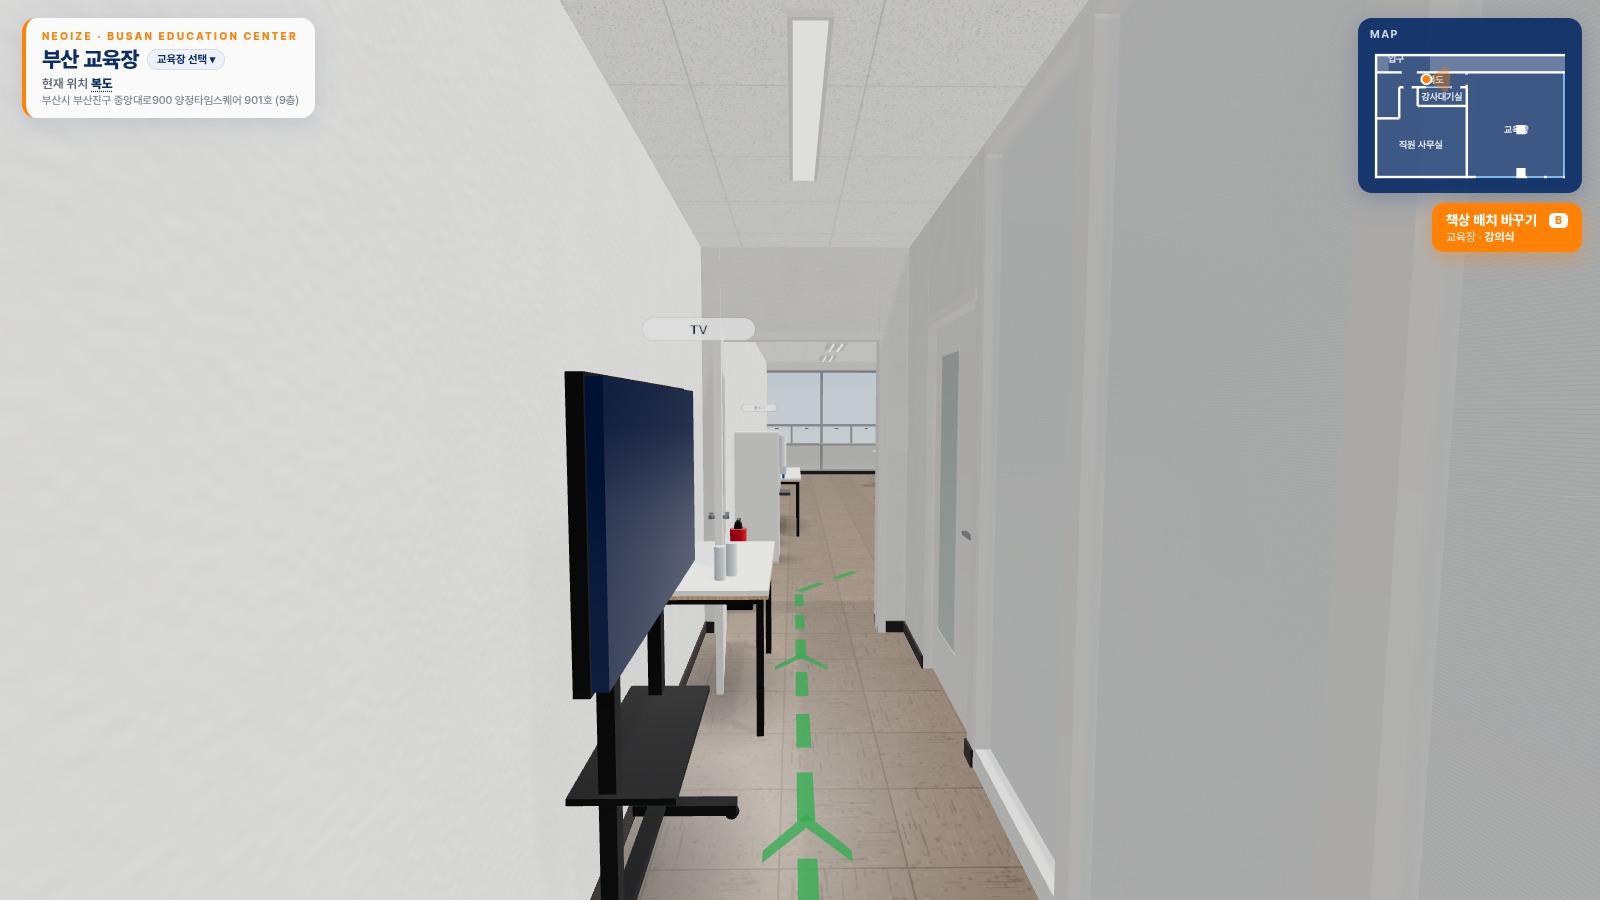
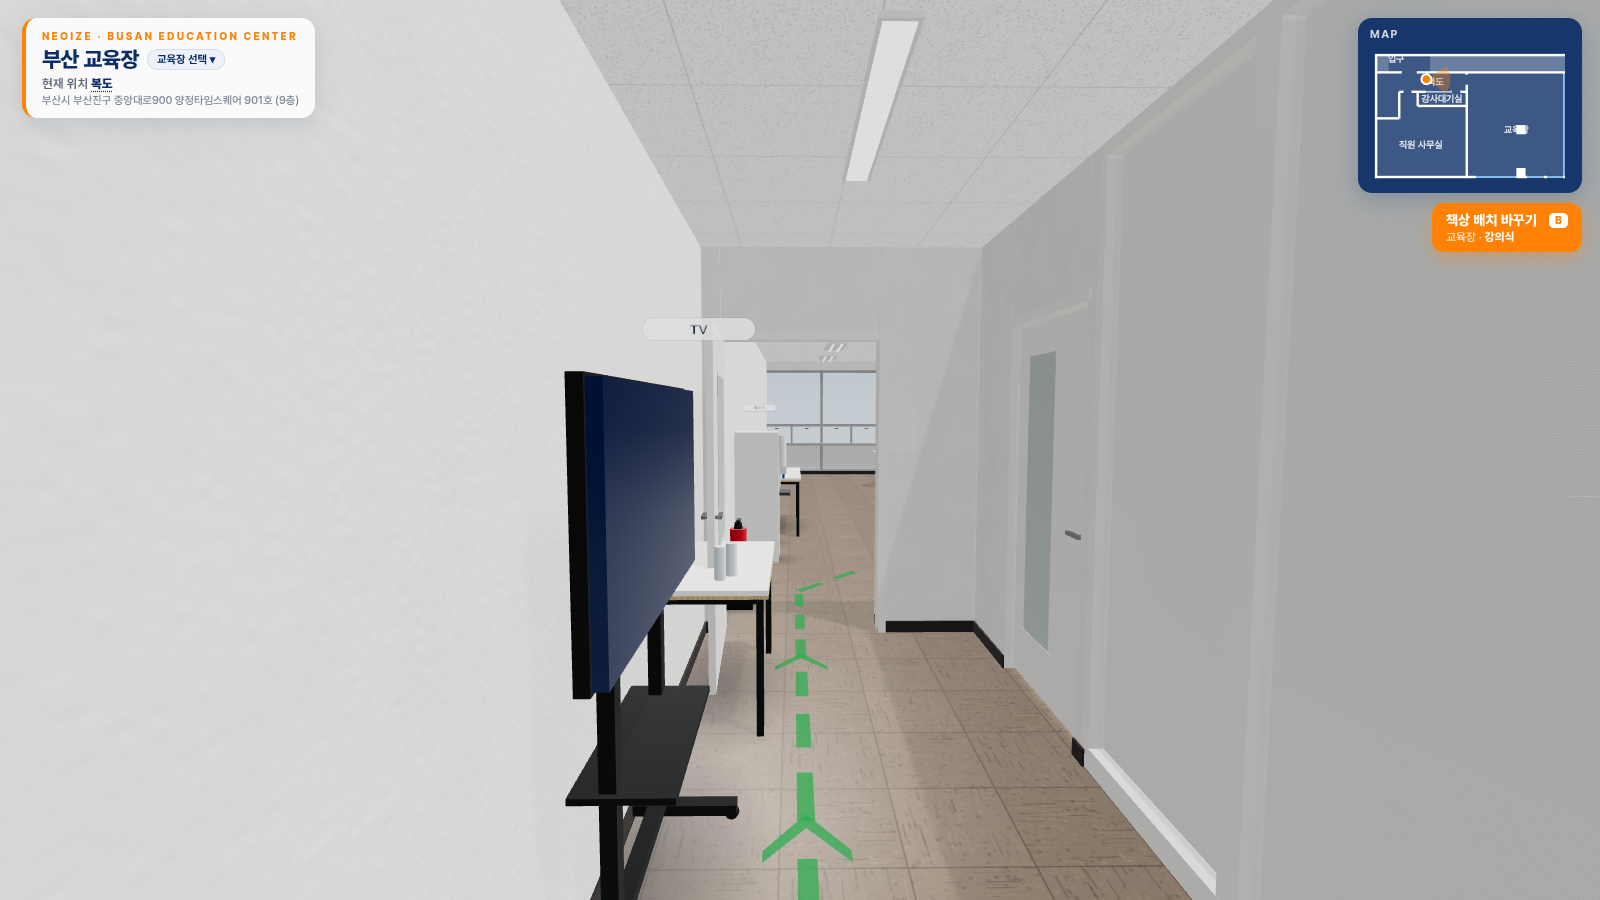
Seoul: public corridor, elevator hall, restrooms, route; Busan: widen north corridor to 2.12m

diff --git a/sites/seoul/layout.js b/sites/seoul/layout.js
@@ -64,6 +64,13 @@ window.LAYOUT = {
       label:[11.0, 11.6], jump:{ x:11.5, z:11.3, look:[11.2, 8.0] },
       card:{ photos:['IMG_0378','IMG_0380','IMG_0388'],
              desc:'유리문 위에 Neoful business space 사인이 있는 입구예요. 들어오면 교육장 앞 디스플레이 월과 배너가 보여요.' } },
+    // (11/19 사용자 도면 '화장실 가는 길') 건물 공용 복도 — 유리입구 → 서쪽 공용 복도(남쪽) → 엘리베이터 홀 → 여자·남자 화장실. 도면 축척 x 0.075 m/px, z 0.0712 m/px (Neoful 12.45 × 12.1m 기준)
+    { id:'restroom', name:'화장실', en:'Restroom', small:true, rect:[19.9, 22.9, 22.35, 28.1], rects:[[36.9, 22.9, 39.75, 28.1]], floor:'floor',
+      label:[21.1, 24.2], jump:{ x:21.1, z:29.4, look:[21.1, 23.0] },
+      card:{ photos:[], desc:'유리입구로 나가 공용 복도를 따라 남쪽으로 내려간 뒤, 엘리베이터 홀 왼쪽이 여자 화장실, 오른쪽 끝이 남자 화장실이에요.' } },
+    { id:'evhall', name:'EV 홀', en:'Elevator Hall', small:true, rect:[12.45, 28.1, 47.25, 31.1], floor:'floor',
+      label:[29.6, 29.6], jump:{ x:13.5, z:29.6, look:[40.0, 29.6] },
+      card:{ photos:[], desc:'엘리베이터 3대가 있는 홀이에요. 회색 화강석 벽과 광택 바닥, 엘리베이터 앞 노란 점자블록이 있어요. 홀 양쪽 끝 가까이에 여자·남자 화장실이 있어요.' } },
     { id:'lounge', name:'라운지', en:'Lounge', rect:[0, 6.22, 12.45, 12.1], floor:'floor',
       label:[3.2, 8.4], jump:{ x:3.2, z:9.9, look:[5.4, 7.0] },
       card:{ photos:['IMG_0420','IMG_0421','IMG_0422','IMG_0424'],
@@ -128,15 +135,46 @@ window.LAYOUT = {
       openings:[ { at:2.70, width:1.0, door:'frameless', hinge:'start', swing:63 } ] },   // 회의실 앞 통유리 3장(문 1 + 고정 2, 문은 서쪽 끝)
     // bay = 유리 한 장의 대략 폭(m). 구간 길이 ÷ bay 를 반올림한 수만큼 유리가 나뉘어요.
     { from:[6.75, 9.18], to:[12.45, 9.18], type:'solid', t:0.30, sign:{ text:'EDUCATION CENTER', at:11.475, y:2.33, size:0.1 },   // 문 위 사인
-      openings:[ { at:11.0, width:0.95, door:'glass', frame:'white', hinge:'end', swing:-88 } ] }  // 교육장 출입문(남쪽 벽 동쪽 끝). 경첩은 동쪽, 교육장 안으로 88° 열려 동쪽 벽 쪽에 붙음 → 통로 쪽 길을 막지 않음
+      openings:[ { at:11.0, width:0.95, door:'glass', frame:'white', hinge:'end', swing:-88 } ] },  // 교육장 출입문
+    // ===== 건물 공용 복도(사용자 도면 11/19, 사진 seoul_corr1 · seoul_corr2_elev) — finish: 'white'(흰 벽+회색 걸레받이) / 'granite'(화강석) =====
+    // 서쪽 공용 복도 x9.0–12.45, z12.1–28.1: 서쪽 = 다른 호실 유리 전면, 동쪽 = 흰 벽(STAIRS 방화문 · 소화전함) → 남쪽 끝 화강석
+    { from:[9.0, 12.1],  to:[9.0, 14.6],  type:'solid', finish:'white', t:0.16 },
+    { from:[9.0, 14.6],  to:[9.0, 27.2],  type:'glass', style:'store', bay:1.4, t:0.12 },     // 다른 호실 유리 전면(출입 불가)
+    { from:[9.0, 27.2],  to:[9.0, 31.1],  type:'solid', finish:'granite', t:0.16 },
+    { from:[12.45, 12.1], to:[12.45, 27.3], type:'solid', finish:'white', t:0.16 },
+    { from:[12.45, 27.3], to:[12.45, 28.1], type:'solid', finish:'granite', t:0.2 },
+    // 엘리베이터 홀 z28.1–31.1, x9.0–47.25: 북쪽 = 여자 화장실 입구 · 엘리베이터 3대 · 남자 화장실 입구, 남쪽 = 화강석 + 흰 문 2개, 동쪽 끝 유리문
+    { from:[12.45, 28.1], to:[19.9, 28.1], type:'solid', finish:'granite', t:0.2 },
+    { from:[22.35, 28.1], to:[36.9, 28.1], type:'solid', finish:'granite', t:0.2 },
+    { from:[39.75, 28.1], to:[47.25, 28.1], type:'solid', finish:'granite', t:0.2 },
+    { from:[9.0, 31.1],  to:[47.25, 31.1], type:'solid', finish:'granite', t:0.2 },
+    { from:[47.25, 28.1], to:[47.25, 31.1], type:'glass', t:0.12,
+      openings:[ { at:28.85, width:1.5, door:'glass', double:true, locked:true } ] },          // 홀 동쪽 끝 유리문(출입 불가)
+    // 화장실 앞 통로(도면 문 표시 자리): 여자 x19.9–22.35, 남자 x36.9–39.75, z22.9–28.1
+    { from:[19.9, 22.9], to:[19.9, 28.1], type:'solid', finish:'granite', t:0.2 },
+    { from:[22.35, 22.9], to:[22.35, 28.1], type:'solid', finish:'granite', t:0.2 },
+    { from:[19.9, 22.9], to:[22.35, 22.9], type:'solid', finish:'white', t:0.2 },
+    { from:[36.9, 22.9], to:[36.9, 28.1], type:'solid', finish:'granite', t:0.2 },
+    { from:[39.75, 22.9], to:[39.75, 28.1], type:'solid', finish:'granite', t:0.2 },
+    { from:[36.9, 22.9], to:[39.75, 22.9], type:'solid', finish:'white', t:0.2 }   // (교육장 출입문: 남쪽 벽 동쪽 끝) 경첩은 동쪽, 교육장 안으로 88° 열려 동쪽 벽 쪽에 붙음 → 통로 쪽 길을 막지 않음
   ],
 
   /* 입구 바깥 복도(건물 밖 짧은 복도) + 입구 포털(바깥에서 본 모습, 사용자 사진)
      rect : 복도 [x1, z1, x2, z2] (z1 = 건물 남쪽 바깥면), portal : 세이지 그린 프레임 x0~x1, door = 양문 [x 시작, x 끝], text = 간판 글씨, room = 호수 */
-  corridor: { rect:[7.8, 12.1, 13.4, 14.3],
+  corridor: { rect:[9.0, 12.1, 12.45, 14.3], shell:false,
     portal: { x0:9.4, x1:12.45, door:[10.8, 12.25], top:2.12, color:'#9BA59A', text:'Neoful business space', room:'210호' } },
 
   /* 벽 블록(소회의실 안 흰 정사각형) 같은 기둥: rect = [x1,z1,x2,z2], slats = 우드 슬랫을 붙일 면 */
+  /* 건물 공용 복도 바닥(테라조)·천장 영역 [x1,z1,x2,z2] — 걷기 가능 */
+  public: { floors: [ [9.0, 12.1, 12.45, 31.1], [12.45, 28.1, 47.25, 31.1], [19.9, 22.9, 22.35, 28.1], [36.9, 22.9, 39.75, 28.1] ],
+            units: [ [4.5, 14.6, 8.94, 27.2] ] },   // units = 유리 너머 다른 호실 바닥(보기만, 출입 불가)
+
+  /* 바닥 초록 동선: 교육장 문 → 유리입구 → 공용 복도 → 엘리베이터 홀 → 여자 화장실 / 남자 화장실 */
+  routes: [
+    { color:'#2fa84f', points:[[11.47, 9.6], [11.5, 11.5], [10.75, 12.8], [10.75, 29.6], [21.1, 29.6], [21.1, 23.6]] },
+    { color:'#2fa84f', points:[[21.1, 29.6], [38.3, 29.6], [38.3, 23.6]] }
+  ],
+
   columns: [
     { rect:[0.78, 0.7, 1.76, 1.68], slats:['west','north'] }   // 소회의실 흰 벽 블록 x0.78–1.76, z0.7–1.68 (실측 스케치 2차)
   ],
@@ -158,13 +196,19 @@ window.LAYOUT = {
     strips: [
       { x:8.2, z:2.4, len:1.2 }, { x:11.2, z:2.4, len:1.2 },
       { x:8.2, z:4.9, len:1.2 }, { x:11.2, z:4.9, len:1.2 },
-      { x:8.2, z:7.4, len:1.2 }, { x:11.2, z:7.4, len:1.2 }
+      { x:8.2, z:7.4, len:1.2 }, { x:11.2, z:7.4, len:1.2 },
+      // 공용 복도(사진1): 남북 방향 긴 라인 조명 / 엘리베이터 홀(사진2): 동서 방향 슬롯 조명
+      { x:10.72, z:15.0, len:2.4, w:0.12 }, { x:10.72, z:19.0, len:2.4, w:0.12 }, { x:10.72, z:23.0, len:2.4, w:0.12 }, { x:10.72, z:27.0, len:2.4, w:0.12 },
+      { x:18.0, z:29.6, len:8.0, w:0.06, rot:90 }, { x:29.6, z:29.6, len:12.0, w:0.06, rot:90 }, { x:41.0, z:29.6, len:8.0, w:0.06, rot:90 }
     ],
     projectors: [
       { x:9.69, z:5.9, aim:[9.555, 0.4], drop:0.3, color:'black', label:'빔프로젝트' },
       { x:4.63, z:4.2, aim:[4.63, 0.59], drop:0.15, color:'white', label:'빔프로젝트' }   // 회의실: 천장 흰색 프로젝터(사진 IMG_0391), 스크린을 향함   // 에어컨 뒤쪽, 내려오는 스크린 정면을 향함
     ],
-    downlights: [[7.4, 1.0], [8.2, 1.0], [10.9, 1.0], [11.8, 1.0]],   // 앞쪽 작은 원형 다운라이트
+    downlights: [[7.4, 1.0], [8.2, 1.0], [10.9, 1.0], [11.8, 1.0],
+      [10.0, 29.0], [11.5, 30.2], [13.5, 28.9], [13.5, 30.3], [16.5, 28.9], [16.5, 30.3], [19.5, 28.9], [19.5, 30.3], [22.5, 28.9], [22.5, 30.3], [25.5, 28.9], [25.5, 30.3], [28.5, 28.9], [28.5, 30.3],
+      [31.5, 28.9], [31.5, 30.3], [34.5, 28.9], [34.5, 30.3], [37.5, 28.9], [37.5, 30.3], [40.5, 28.9], [40.5, 30.3], [43.5, 28.9], [43.5, 30.3], [46.0, 29.6],
+      [21.1, 24.5], [21.1, 26.8], [38.3, 24.5], [38.3, 26.8]],   // 앞쪽 작은 원형 다운라이트
     aircon: [[4.63, 2.96], [9.69, 4.0, 1.0], [1.96, 8.9, 1.0]]   // [x, z, 크기] — 회의실, 교육장 1대, 라운지 1대
   },
 
@@ -325,6 +369,20 @@ window.LAYOUT = {
     { type:'purifier', x:6.4, z:8.96 },                                            // LG 공기청정기 z8.80–9.13 — 몰딩 벽 남쪽 끝(z9.18)보다 5cm 안쪽
 
     /* --- 입구 --- */
-    { type:'mat', x:11.52, z:11.4, w:1.4, d:0.8, color:'orange' }
+    { type:'mat', x:11.52, z:11.4, w:1.4, d:0.8, color:'orange' },
+
+    /* --- 건물 공용 복도 · 엘리베이터 홀 · 화장실 (사용자 도면 11/19 + 사진) --- */
+    { type:'fireCabinet', x:12.36, z:23.6, rot:90 },                                     // 베이지 소화전·경보 함(사진1)
+    { type:'stairsDoor', x:12.35, z:25.9, rot:90 },                                      // STAIRS 방화문(도면: 왼쪽 방 문 = 계단실)
+    { type:'restroom', x:21.125, z:23.02, rot:180, kind:'f', text:'여자 화장실', w:0.95 },   // 여자 화장실 문(닫힘)
+    { type:'restroom', x:38.325, z:23.02, rot:180, kind:'m', text:'남자 화장실', w:0.95 },   // 남자 화장실 문(닫힘)
+    { type:'elevator', x:24.98, z:28.21, rot:180, floor:2, noPanel:true },                // 엘리베이터 3대(도면: 문이 남쪽을 봄)
+    { type:'elevator', x:29.6,  z:28.21, rot:180, floor:2, noPanel:true },
+    { type:'elevator', x:34.1,  z:28.21, rot:180, floor:2, noPanel:true },
+    { type:'tactile', x:24.98, z:28.6, w:1.2, d:0.3 }, { type:'tactile', x:29.6, z:28.6, w:1.2, d:0.3 }, { type:'tactile', x:34.1, z:28.6, w:1.2, d:0.3 },
+    { type:'plainDoor', x:16.5, z:30.99, rot:0 }, { type:'plainDoor', x:43.0, z:30.99, rot:0 },   // 홀 남쪽 흰 문(관리실 등, 닫힘·장식)
+    { type:'extinguisher', x:9.3, z:28.6 },
+    { type:'hangSign', x:21.125, z:28.5, kind:'f', text:'여자 화장실', w:1.1 },          // 화장실 입구 매달린 사인
+    { type:'hangSign', x:38.325, z:28.5, kind:'m', text:'남자 화장실', w:1.1 }
   ]
 };

diff --git a/sites/busan/layout.js b/sites/busan/layout.js
@@ -25,11 +25,11 @@ window.LAYOUT = {
     { id:'entrance', name:'입구', en:'Entrance', small:true, rect:[1.5, 0, 6.0, 2.0], floor:'floor',
       label:[2.3, 0.6], jump:{ x:3.73, z:0.45, look:[3.73, 4.0] },
       card:{ photos:[], desc:'9층 출입구(북쪽 벽 비상구 표시 아래 유리문)예요. 들어와서 초록 경로를 따라 북쪽 복도를 동쪽으로 가면 끝에 교육장 문이 있어요. 화장실은 서쪽 복도 끝 왼쪽 문이에요.' } },
-    { id:'corridor', name:'복도', en:'Corridor', small:true, rect:[0, 2.0, 10.0, 3.62], rects:[[0, 3.62, 2.64, 7.01]], floor:'floor',
-      label:[6.6, 2.8], jump:{ x:4.2, z:2.8, look:[10.0, 2.8] }, card:{ photos:[], desc:'입구에서 교육장까지 이어지는 복도예요. 서쪽 복도 끝 왼쪽(서쪽 벽)에 화장실 문이 있어요.' } },
-    { id:'instructor', name:'강사대기실', en:'Instructor Room', small:true, noEntry:true, rect:[4.65, 3.62, 10.0, 5.66], floor:'floor', label:[7.3, 4.64],
+    { id:'corridor', name:'복도', en:'Corridor', small:true, rect:[0, 2.0, 10.0, 4.12], rects:[[0, 4.12, 2.64, 7.01]], floor:'floor',
+      label:[6.6, 3.05], jump:{ x:4.2, z:3.05, look:[10.0, 2.8] }, card:{ photos:[], desc:'입구에서 교육장까지 이어지는 복도예요. 서쪽 복도 끝 왼쪽(서쪽 벽)에 화장실 문이 있어요.' } },
+    { id:'instructor', name:'강사대기실', en:'Instructor Room', small:true, noEntry:true, rect:[4.65, 4.12, 10.0, 5.66], floor:'floor', label:[7.3, 4.9],
       jump:{ x:7.3, z:4.6, look:[10.0, 4.6] }, card:{ photos:[], desc:'복도와 교육장 사이의 강사대기실 (출입 불가).' } },
-    { id:'office', name:'직원 사무실', en:'Staff Office', small:true, noEntry:true, rect:[0, 7.01, 10.0, 13.52], rects:[[2.64, 5.66, 10.0, 7.01], [2.64, 3.62, 4.65, 5.66]], floor:'floor', label:[5.0, 9.9],
+    { id:'office', name:'직원 사무실', en:'Staff Office', small:true, noEntry:true, rect:[0, 7.01, 10.0, 13.52], rects:[[2.64, 5.66, 10.0, 7.01], [2.64, 4.12, 4.65, 5.66]], floor:'floor', label:[5.0, 9.9],
       jump:{ x:5.0, z:9.9, look:[10.0, 9.9] }, card:{ photos:[], desc:'건물 남서쪽 직원 사무실 (출입 불가).' } }
   ],
 
@@ -60,16 +60,16 @@ window.LAYOUT = {
       openings:[ { at:2.9, width:1.66, door:'glass', double:true, entrance:true, frame:'white', open:true } ] },
     // 북쪽 복도 남쪽 벽 (강사대기실·사무실과 구분)
     // 북쪽 복도 남쪽 벽(사진: 서→동) 직원 사무실 문 · 금색 사인 · 블라인드 유리 3칸 · 강사대기실 문 (at = 문 시작 x)
-    { from:[2.64, 3.62], to:[5.55, 3.62], type:'solid',
+    { from:[2.64, 4.12], to:[5.55, 4.12], type:'solid',
       openings:[ { at:3.1, width:0.9, door:'wood', frame:'white', hinge:'start', swing:-88, locked:true } ] },   // 직원 사무실 문(출입 불가)
-    { from:[5.55, 3.62], to:[8.25, 3.62], type:'glass', style:'blinds', bay:0.9 },                              // 강사대기실 유리 칸막이 + 흰 블라인드
-    { from:[8.25, 3.62], to:[10.0, 3.62], type:'solid',
+    { from:[5.55, 4.12], to:[8.25, 4.12], type:'glass', style:'blinds', bay:0.9 },                              // 강사대기실 유리 칸막이 + 흰 블라인드
+    { from:[8.25, 4.12], to:[10.0, 4.12], type:'solid',
       openings:[ { at:8.35, width:0.95, door:'wood', vision:'tall', frame:'white', hinge:'end', swing:88, locked:true } ] },   // 강사대기실 문(세로 긴 반투명 유리, 출입 불가)
     // 서쪽 복도 동쪽 벽 + 직원 사무실 문(추정 위치, 출입 불가)
-    { from:[2.64, 3.62], to:[2.64, 7.01], type:'solid' },
+    { from:[2.64, 4.12], to:[2.64, 7.01], type:'solid' },
     { from:[0, 7.01], to:[2.64, 7.01], type:'solid' },   // 서쪽 복도 끝
     // 강사대기실
-    { from:[4.65, 3.62], to:[4.65, 5.66], type:'solid' },
+    { from:[4.65, 4.12], to:[4.65, 5.66], type:'solid' },
     { from:[4.65, 5.66], to:[10.0, 5.66], type:'solid' },
     // 교육장 서쪽(스크린) 벽: 북쪽 끝(z2.25–3.25)에 교육장 문
     { from:[10.0, 2.0], to:[10.0, 13.52], type:'solid',
@@ -92,7 +92,7 @@ window.LAYOUT = {
       { x:11.6, z:10.6, len:1.2, w:0.3, rot:90, twin:true }, { x:14.1, z:10.6, len:1.2, w:0.3, rot:90, twin:true }, { x:16.6, z:10.6, len:1.2, w:0.3, rot:90, twin:true }, { x:19.1, z:10.6, len:1.2, w:0.3, rot:90, twin:true },
       { x:11.6, z:12.95, len:1.2, w:0.3, rot:90, twin:true }, { x:14.1, z:12.95, len:1.2, w:0.3, rot:90, twin:true }, { x:16.6, z:12.95, len:1.2, w:0.3, rot:90, twin:true }, { x:19.1, z:12.95, len:1.2, w:0.3, rot:90, twin:true },
       { x:3.73, z:1.0, len:1.2, w:0.1, rot:90 },
-      { x:2.0, z:2.8, len:1.2, w:0.1, rot:90 }, { x:5.0, z:2.8, len:1.2, w:0.1, rot:90 }, { x:8.0, z:2.8, len:1.2, w:0.1, rot:90 },
+      { x:2.0, z:3.05, len:1.2, w:0.1, rot:90 }, { x:5.0, z:3.05, len:1.2, w:0.1, rot:90 }, { x:8.0, z:3.05, len:1.2, w:0.1, rot:90 },
       { x:1.3, z:5.2, len:1.2, w:0.1, rot:0 },
       { x:7.3, z:4.64, len:1.2, w:0.1, rot:90 },
       { x:3.0, z:9.0, len:1.2, w:0.1, rot:90 }, { x:7.0, z:9.0, len:1.2, w:0.1, rot:90 }, { x:3.0, z:11.8, len:1.2, w:0.1, rot:90 }, { x:7.0, z:11.8, len:1.2, w:0.1, rot:90 }
@@ -146,7 +146,7 @@ window.LAYOUT = {
     { type:'extinguisher', x:4.75, z:2.3 },
     { type:'extinguisher', x:11.2, z:2.25 },
     { type:'extinguisher', x:10.2, z:13.2 },
-    { type:'extinguisher', x:4.95, z:3.95 },
+    { type:'extinguisher', x:4.95, z:4.45 },
 
     /* --- 입구 앞 홀(추정): 엘리베이터 / 서쪽 복도 끝 화장실 --- */
     { type:'elevator', x:3.73, z:0.06, rot:180, floor:9 },        // 출입구 앞 엘리베이터 홀(추정)
@@ -155,7 +155,7 @@ window.LAYOUT = {
     /* --- 북쪽 복도(사진): 북쪽 벽 TV · 테이블, 남쪽 벽 금색 사인 --- */
     { type:'mobileTv', x:7.6, z:2.3, rot:180 },                                   // 이동형 TV(약 55형, 검정 스탠드)
     { type:'cafeTable', x:9.05, z:2.33, w:1.1, d:0.6, sanitizer:true },              // 흰 상판 테이블 + 손소독제
-    { type:'goldSign', x:5.0, z:3.54, w:0.9 },                                     // 금색 사인 패널(로고)
+    { type:'goldSign', x:5.0, z:4.04, w:0.9 },                                     // 금색 사인 패널(로고)
 
     /* --- 교육장 북서쪽(사진): 문 오른쪽 북쪽 벽 따라 휴지통 · 소화기 · 정수기 · 회색 휴지통 · 테이블 --- */
     { type:'bin', x:10.55, z:2.3, square:true, w:0.26, h:0.42 },

diff --git a/index.html b/index.html
@@ -178,10 +178,10 @@ a.pk-card:hover{transform:translateY(-4px);box-shadow:0 16px 36px rgba(11,46,103
   </div>
 </aside>
 <!-- 교육장 목록: sites/sites.js / 교육장별 공간 설정: sites/<id>/layout.js (치수·가구 배치는 거기서 수정) -->
-<script src="sites/sites.js?v=11192330"></script>
+<script src="sites/sites.js?v=11192400"></script>
 <script type="importmap">{"imports":{"three":"./lib/three.module.min.js","three/addons/":"./lib/addons/"}}</script>
 <script type="module">
-const V = "11192330", SITES = window.SITES || [], q = new URLSearchParams(location.search);
+const V = "11192400", SITES = window.SITES || [], q = new URLSearchParams(location.search);
 let id = q.get('site');
 if (!id && [...q.keys()].length) id = 'seoul';            // 예전 링크(?room=… 등)는 서울 구로로
 const S = SITES.find((s) => s.id === id);

diff --git a/수정방법.md b/수정방법.md
@@ -323,6 +323,7 @@ ceiling: { panels:[ { rect:[x1,z1,x2,z2], nx:2, nz:3 } ],  aircon:[[x,z], ...] }
 
 ## 부산 교육장 (sites/busan/layout.js)
 - 문 5개: 북쪽 벽 출입구(유리 양문 at:2.9) · 서쪽 벽 화장실 문(`restroom` 빌더, 닫힘) · 직원 사무실 문(복도 남쪽 벽 at:3.1, 잠김) · 강사대기실 문(at:8.35, `vision:'tall'`, 잠김) · 교육장 문(교육장 서쪽 벽 at:2.2, `vision:'panel'`, E 로 열기). 문 `at` = 벽 방향 절대 좌표의 문 시작점(가운데 아님).
+- 북쪽 복도 폭(11/19 넓힘): z2.0–4.12 = 2.12m (전 z2.0–3.62 = 1.62m). 남쪽 벽·문·금색 사인·강사대기실/직원 사무실 rect 의 4.12 를 같이 고치세요.
 - 강사대기실 복도 벽 x5.55–8.25 = `style:'blinds'`(흰 프레임 유리 + 흰 블라인드). 금색 사인 `goldSign`, 복도 TV `mobileTv`, 테이블 `cafeTable`(sanitizer), 교육장 북서쪽 정수기 `waterDispenser` + 휴지통(`bin` square / color) + 테이블.
 - 기둥 2개 x15.4–16.4 (시계·빔프로젝트도 같이 옮김). 남쪽 벽 통창 = 기둥 서쪽 4칸(x11.0–15.4, 사진3) + 동쪽 2칸(x16.57–18.41, 18.74–20.53), 나머지는 벽. 바닥색 floorColor '#8a7a6b'.
 - 공식 안내도(9F) 기준 축척 0.03 m/px (4인책상 한 줄 3.6m = 약 120px). px → m: x=(px-200)*0.03, z=(py-208)*0.03+2.0 (북쪽 2m = 입구 앞 엘리베이터 홀, 추정).
@@ -337,3 +338,11 @@ ceiling: { panels:[ { rect:[x1,z1,x2,z2], nx:2, nz:3 } ],  aircon:[[x,z], ...] }
 
 ## 서울 단상 (11/19)
 - `stage` 는 닫힌 상자(짙은 회색 몸체) + 카펫 상판(`top:'carpetDark'`) + 위 모서리·옆면 금속 트림, 계단은 `stepX:0`(가운데). 강연대는 `podium` x8.2 z1.28 로 단상 위에 완전히 올라가 있어요(단상 x7.6–11.6, z1.0–1.6).
+
+## 서울 — 건물 공용 복도 · 엘리베이터 홀 · 화장실 (sites/seoul/layout.js, 11/19 사용자 도면)
+- 도면 축척: x 0.075 m/px, z 0.0712 m/px (Neoful 블록 12.45 × 12.1m 기준, 유리입구 x10.8–12.25 와 일치).
+- `public.floors` = 걸을 수 있는 공용 바닥(테라조) + 천장: 서쪽 공용 복도 x9.0–12.45 · z12.1–31.1, EV 홀 x12.45–47.25 · z28.1–31.1, 여자 화장실 앞 x19.9–22.35 · z22.9–28.1, 남자 화장실 앞 x36.9–39.75 · z22.9–28.1.
+- `public.units` = 유리 너머 다른 호실(보기만). 벽 `finish:'white'|'granite'`(화강석), 유리 전면 `type:'glass', style:'store'`.
+- 가구: `stairsDoor`(STAIRS 방화문), `fireCabinet`, `restroom`(kind:'f'|'m', text), `hangSign`, `elevator`(noPanel, floor), `tactile`(점자블록), `plainDoor`.
+- 바닥 초록 동선 `routes`: 교육장 문 → 유리입구 → 공용 복도 → EV 홀 → 여자/남자 화장실. 바로가기 '화장실' · 'EV 홀'.
+- 위에서 본 전체 평면 스크린샷: `?site=seoul&shot=planwide`.
